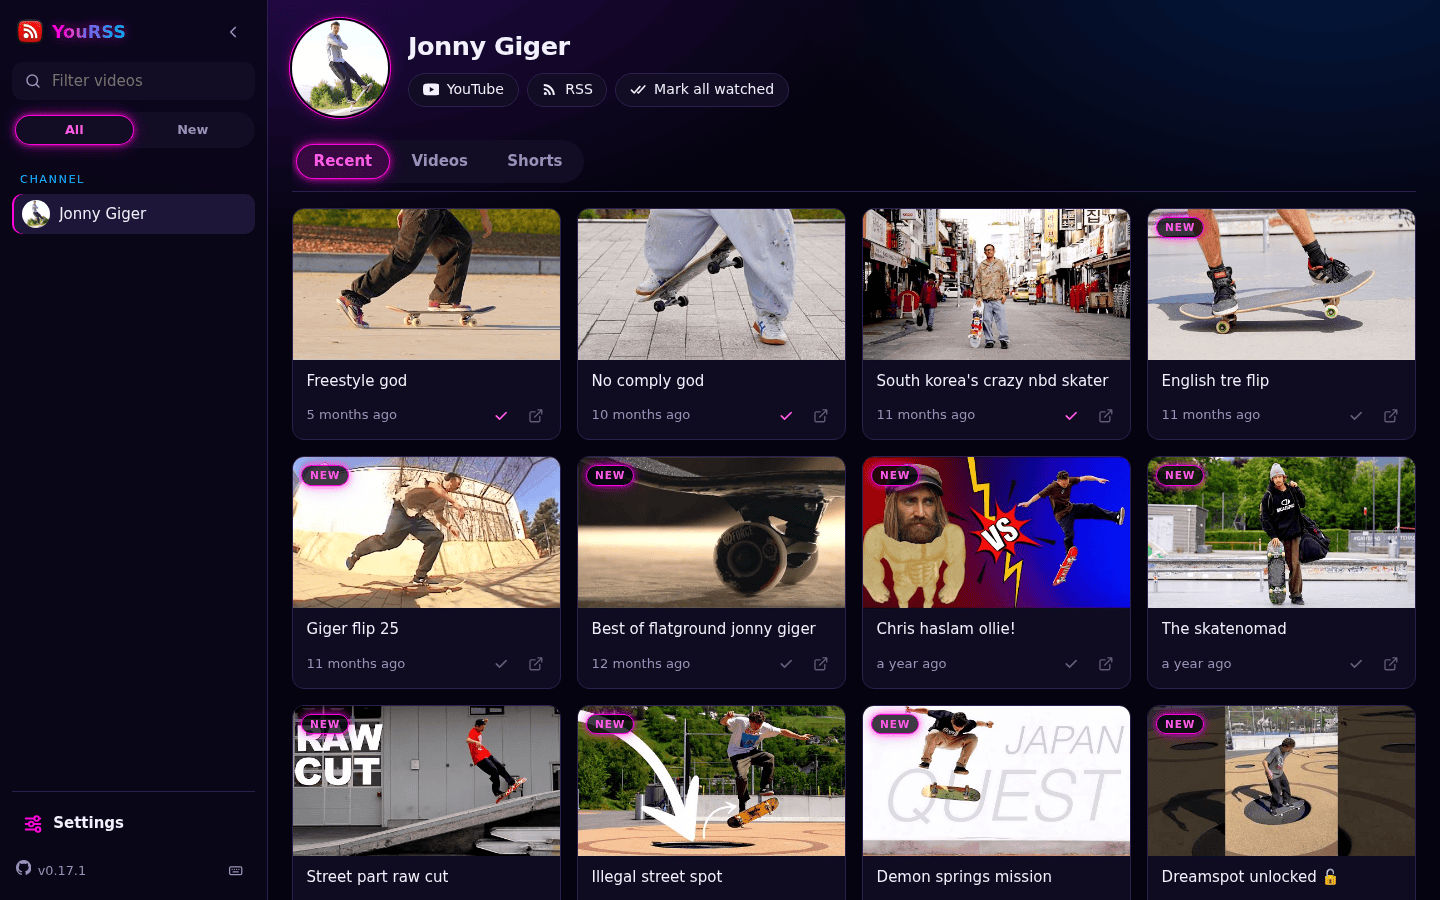
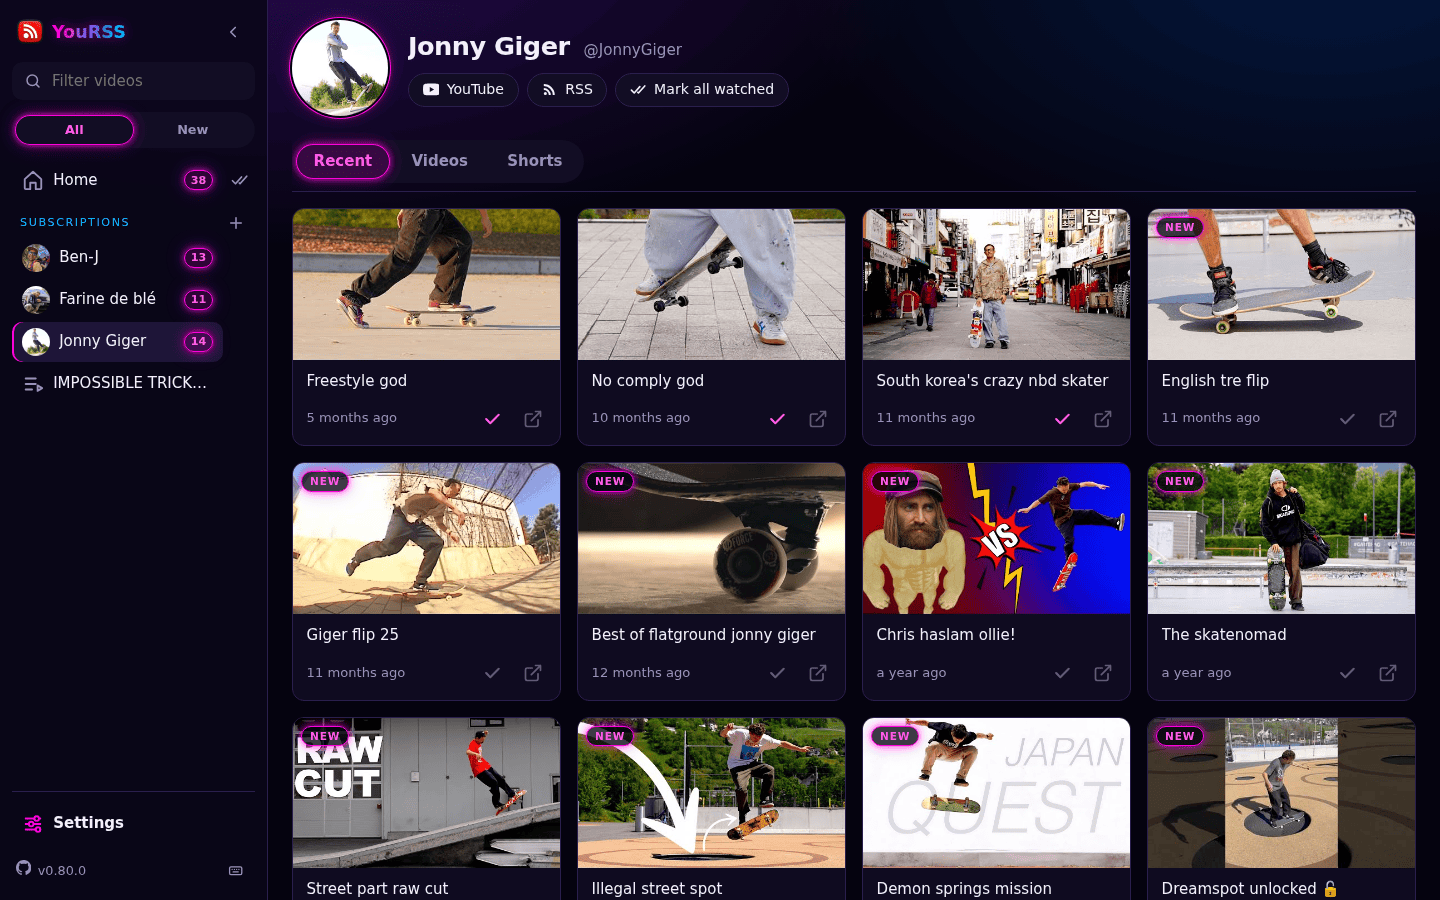
📝 Refresh the README screenshots and present how a page is built
The feature sections start with "Build your own page": the home page, the
page just created and the add dialog, then what can be added, how a
subscription is removed and the address made of ids to bookmark.
Every screenshot is redone on 0.80.0: the hero shows an address of ids, a
channel is shown opened inside a page, the phone menu shows the add and
remove commands and a playlist.

Claude-Session: https://claude.ai/code/session_01KFC6ScnjAA91dV7CKM56Bf

diff --git a/README.md b/README.md
@@ -9,9 +9,9 @@
 <details>
 <summary>More screenshots</summary>
 
-| The player takes the whole row | The homepage of a channel |
+| The player takes the whole row | A channel, opened inside the page |
 | --- | --- |
-| ![Player](./images/yourss_player.png) | ![Channel page](./images/yourss_channel.png) |
+| ![Player](./images/yourss_player.png) | ![Channel view](./images/yourss_channel.png) |
 
 <p align="center">
   <img src="./images/yourss_mobile_menu.png" alt="YouRSS on mobile: the subscriptions" width="30%">
@@ -33,19 +33,34 @@ Youtube publishes an RSS feed for every channel. RSS is an open and stable way t
 
 ## Features
 
-### One page for all your channels
+### Build your own page
 
-The channels of a page are in its URL, as a list of *channel_id* (example https://yourss.domain.tld/UCVooVnzQxPSTXTMzSi1s6uw,UCQsmxaMzYr76Yd1iqMEq8TA): you get their last 15 videos, sorted by date. Start from the home page, add channels by handle, *channel_id*, or by the address of a channel or of one of its videos, add playlists by id or address, remove the ones you no longer want, then bookmark the page: its address is your subscription list, nothing is stored on the server. A *user* page gives a short name to a list of channels declared in the configuration.
+No account: your subscriptions are the address of your page.
 
-Turn on *Show new videos* in the settings and the videos you played for a few seconds are marked as watched: on the next visit a `NEW` marker and a counter per channel show what you have not seen yet. This is stored in your browser only.
+| 1. Start from the home page | 2. Your page is created | 3. Add the rest, then bookmark |
+| --- | --- | --- |
+| ![The home page explains how it works](./images/yourss_home.png) | ![The page just created](./images/yourss_welcome.png) | ![Adding a channel or a playlist](./images/yourss_add.png) |
+
+- the home page takes your first channel, then the **+** next to *Subscriptions* adds the others
+- a channel is added by its handle (`@name`), its *channel_id*, its address or the address of one of its videos; a playlist by its id or its address
+- a subscription is removed from the sidebar
+- each change gives a new address, made of ids only (example https://yourss.domain.tld/UCVooVnzQxPSTXTMzSi1s6uw,PLw-vK1_d04zZCal3yMX_T23h5nDJ2toTk): bookmark it, share it, open it on another device. Nothing is stored on the server
+
+The administrator of an instance can also declare *user* pages, short names for a list of channels and playlists (`/u/<name>`), and can turn custom pages off.
+
+### One page for all your subscriptions
+
+A page shows the last 15 videos of each channel and what the feed of each playlist holds, sorted by date.
+
+Turn on *Show new videos* in the settings and the videos you played for a few seconds are marked as watched: on the next visit a `NEW` marker and a counter per channel show what you have not seen yet, and an *All / New* switch hides the rest. This is stored in your browser only.
 
 ### Play in the page
 
 Click a thumbnail to play: the player takes the whole row, or the whole screen on a phone. When you scroll away the player is closed, or keeps playing in a mini player if you turned it on in the settings. A second action opens a fullscreen player with links to Youtube and to the RSS feed. The next video can be played automatically.
 
-### Channel pages
+### Channels and playlists, inside the page
 
-Browse the homepage of a channel with its recent videos, all its videos, its shorts and its streams.
+Click a channel in the sidebar to browse it without leaving your page: its recent videos, all its videos, its shorts and its streams. A playlist opens the same way.
 
 ### And also
 
